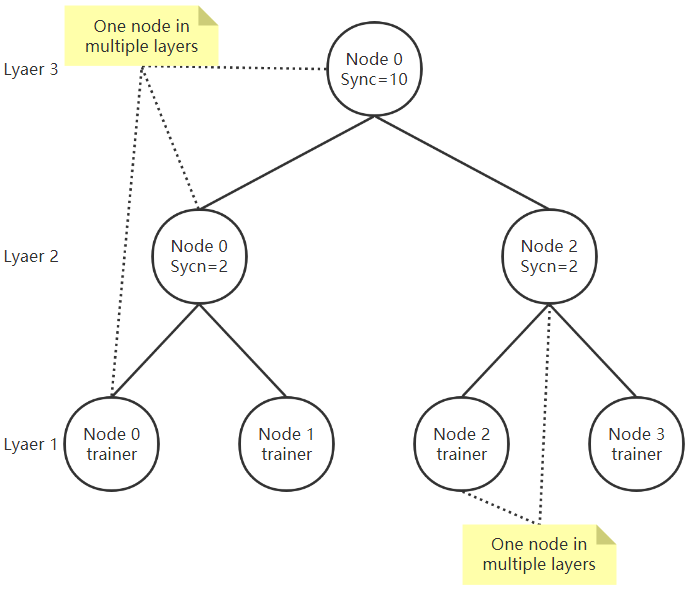
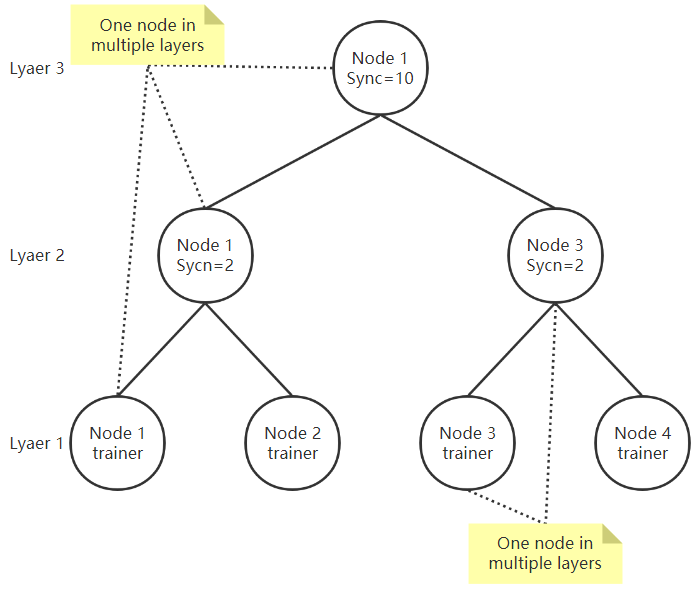
containernet启动

diff --git a/values/values_h.py b/values/values_h.py
@@ -1,28 +1,15 @@
 import json
 import os
 
-values = {}
+file_name = os.getenv ('HOSTNAME') + '.env'
+file_path = os.path.abspath (os.path.join (os.path.dirname (__file__), '../env', file_name))
+file = open (file_path)
+values = json.loads (file.read ().replace ('\n', '').replace ('\r', ''))
 
-values ['id'] = int (os.getenv ('id'), 0)
-values ['port'] = int (os.getenv ('port'), 0)
-values ['type'] = int (os.getenv ('type'), 0)
-# TODO: 最顶层节点聚合多少次结束训练，该功能已被values ['sync']替代
-#  目前的作用好像是用来将训练数据划分成一定数量的batch，考虑换个名称
-values ['round'] = int (os.getenv ('round'))
-# 每层的当前轮次
-values ['layer_count'] = int (os.getenv ('layer_count', 0))
-values ['layer'] = (json.loads (os.getenv ('layer'))) ['data']
-values ['up_addr'] = (json.loads (os.getenv ('up_addr'))) ['data']
-values ['down_count'] = (json.loads (os.getenv ('down_count'))) ['data']
-if not (values ['layer_count'] == 1 and values ['layer'] [0] == 1):
-	values ['down_addr'] = (json.loads (os.getenv ('down_addr'))) ['data']
 values ['current_round'] = [0] * values ['layer_count']
-
 # 聚合用
 # FL中选择下一次训练的节点数量比例，在EL中应该设置为1
 values ['fraction'] = 1
-# EL中每层的同步频率
-values ['sync'] = (json.loads (os.getenv ('sync'))) ['data']
 # 每层接收到的参数数量
 values ['received_count'] = [0] * values ['layer_count']
 # 每层接收到的参数

diff --git a/containernet.py b/containernet.py
@@ -1,0 +1,40 @@
+from mininet.net import Containernet
+from mininet.node import Controller
+from mininet.cli import CLI
+from mininet.link import TCLink
+from mininet.log import info, setLogLevel
+
+setLogLevel ('info')
+
+net = Containernet (controller=Controller)
+info ('*** Adding controller\n')
+net.addController ('c0')
+info ('*** Adding docker containers\n')
+n1 = net.addDocker ('n1', ip='10.0.0.1', dimage="etree", dcmd="python hybrid.py",
+	volumes=["/home/lin/ETree/:/home/ETree"], ports=[8888], port_bindings={8888: 8888})
+n2 = net.addDocker ('n2', ip='10.0.0.2', dimage="etree", dcmd="python hybrid.py",
+	volumes=["/home/lin/ETree/:/home/ETree"])
+n3 = net.addDocker ('n3', ip='10.0.0.3', dimage="etree", dcmd="python hybrid.py",
+	volumes=["/home/lin/ETree/:/home/ETree"])
+n4 = net.addDocker ('n4', ip='10.0.0.4', dimage="etree", dcmd="python hybrid.py",
+	volumes=["/home/lin/ETree/:/home/ETree"])
+info ('*** Adding switches\n')
+s1 = net.addSwitch ('s1')
+# s2 = net.addSwitch ('s2')
+info ('*** Creating links\n')
+net.addLink (n1, s1)
+net.addLink (n2, s1)
+net.addLink (n3, s1)
+net.addLink (n4, s1)
+# net.addLink (s1, s2, cls=TCLink, delay='100ms', bw=1)
+# net.addLink (s2, n2)
+info ('*** Starting network\n')
+net.start ()
+info ('*** Testing connectivity\n')
+net.ping ([n1, n2])
+net.ping ([n1, n3])
+net.ping ([n1, n4])
+info ('*** Running CLI\n')
+CLI (net)
+info ('*** Stopping network')
+net.stop ()

diff --git a/generate_yml.py b/generate_yml.py
@@ -12,26 +12,26 @@ for option, value in options:
 		n = int (value)
 
 string = \
-	"version: \"2\"\n" \
-	+ "services:\n" \
-	+ "  \"0\":\n" \
-	+ "    extends:\n" \
-	+ "      file: ./etree.yml\n" \
-	+ "      service: etree\n" \
-	+ "    container_name: \"node0\"\n" \
-	+ "    env_file:\n" \
-	+ "      - env/0.env\n" \
-	+ "    ports:\n" \
-	+ "      - \"8888:8888\"\n"
+	"version: \"2\"\r\n" \
+	+ "services:\r\n" \
+	+ "  \"0\":\r\n" \
+	+ "    extends:\r\n" \
+	+ "      file: ./etree.yml\r\n" \
+	+ "      service: etree\r\n" \
+	+ "    container_name: \"n0\"\r\n" \
+	+ "    environment:" \
+	+ "      HOSTNAME: \"n0\"" \
+	+ "    ports:\r\n" \
+	+ "      - \"8888:8888\"\r\n"
 
 for i in range (1, n):
-	string += "  \"" + str (i) + "\":\n" \
-	          + "    extends:\n" \
-	          + "      file: ./etree.yml\n" \
-	          + "      service: etree\n" \
-	          + "    container_name: \"node" + str (i) + "\"\n" \
-	          + "    env_file:\n" \
-	          + "      - env/" + str (i) + ".env\n"
+	string += "  \"" + str (i) + "\":\r\n" \
+	          + "    extends:\r\n" \
+	          + "      file: ./etree.yml\r\n" \
+	          + "      service: etree\r\n" \
+	          + "    container_name: \"n" + str (i) + "\"\r\n" \
+	          + "    environment:\r\n" \
+	          + "      HOSTNAME: \"n" + str (i) + "\"\r\n"
 
 with open ('run.yml', 'w') as f:
 	f.write (string)

diff --git a/hybrid.py b/hybrid.py
@@ -13,7 +13,7 @@ from values import values_h
 nn = nn_lr.get_nn ()
 v = values_h.get_values ()
 
-logging.basicConfig (level=logging.INFO, filename='log/node' + str (v ['id']) + '.log', filemode='w',
+logging.basicConfig (level=logging.INFO, filename='log/n' + str (v ['id']) + '.log', filemode='w',
 	format='%(message)s')
 
 nn_lr.set_train_data_batch (v ['batch_size'], v ['round'], v ['start_index'], v ['end_index'])

diff --git a/proxy.py b/proxy.py
@@ -17,6 +17,10 @@ class logFunc ():
 		pass
 
 
+#TODO: log文件变了
+#  不区分parameter_server和work了，因为一个节点可能同时是两种角色
+# logging.basicConfig (level=logging.INFO, filename='log/n' + str (v ['id']) + '.log', filemode='w', format='%(message)s')
+
 # 被代理类
 class beProxy (logFunc):
 	# def basicconfig(self):

diff --git a/env/README.md b/env/README.md
@@ -1,9 +1,9 @@
 ####当前env的网络结构
 ![网络结构](../default_network.png)
 
-####env文件说明
+#### env文件说明
 - id，要和该env的名字一致  
-```id=0```
+```id=1```
 - 端口号，统一8888  
 ```port=8888```
 - 类型，0=EL，1=FL  
@@ -13,8 +13,13 @@
 - 同时处于多少层  
 ```layer_count=3```
 
-- 从这开始都为JSON格式，key={"data":[...]}，即使节点只处于一层也要用[ ]，参考1.env
-
+##### 注意
+  0. 下面都为JSON格式，key={"data":[...]}，即使节点只处于一层也要用[ ]，参考1.env
+  0. 涉及真实地址的部分，docker-compose和containernet两种启动方式略有不同
+  0. 使用docker-compose时，addr设置成类似http://n2:8888的格式，即用run.yml中的HOSTNAME
+  0. 使用containernet时，addr设置成类似http:10.0.0.2:8888的格式，即用containernet.py中的ip
+  0. 问就是containernet不能用HOSTNAME访问，而docker-compose用HOSTNAME访问完全不care IP
+  
 - 分别属于哪些层，1为最底层  
 ```layer={"data":[1,2,3]}```
 - 节点位于每层的上层节点地址  
@@ -25,7 +30,8 @@
 ```down_count={"data":[0,2,2]}```  
 当节点处于最底层为训练节点时，该层的down_count置为0  
 - 节点位于每层的下层节点地址  
-```down_addr={"data":[[],["self","http://node1:8888"],["self","http://node2:8888"]```  
+```down_addr={"data":[[],["self","http://n2:8888"],["self","http://n3:8888"]```  
+```down_addr={"data":[[],["self","http://10.0.0.2:8888"],["self","http://10.0.0.3:8888"]```  
 当节点仅仅处于最底层时可以不写down_addr  
 当节点同时处于最底层和其他层时，最底层要留一个空的[ ]，参考0.env  
 当节点同时处于多层，且下层节包含自己时，用self代替完全的地址

diff --git a/README.md b/README.md
@@ -2,20 +2,30 @@
 ###已完成部分
 - Dockerfile
 - docker-compose
+- ContainerNet
 ###待完成部分
-- 集成到ContainerNet
+- ??
 ###安装说明
 0. Install docker >= v19.03
-0. Install docker-compose >= v1.25
+0. Install docker-compose >= v1.25 (docker-compose启动)
+0. Bare-metal install Containernet >= master branch 7ad907e (ContainerNet启动)
 0. ```bash setup.sh```
 0. Wait and have a coffee
-###使用说明
+###docker-compose启动说明
 0. 如果要自定义网络
     0. 定义一个N个节点的网络，比如4
     0. ```python3 generate_yml.py -n 4```
-    0. 在./env中编写0.env~n-1.env，格式说明参见./env/README.md
-    0. 务必将节点0作为最上层的节点
+    0. 在./env中编写1.env~n.env，格式说明参见./env/README.md
+    0. 务必将节点1作为最上层的节点
 0. ```docker-compose -f run.yml &```
 0. 等到显示N个Serving Flask app "hybrid" (lazy loading)
 0. ```curl localhost:8888/start```
 0. 显示training ended后可在.log/查看训练情况
+###Containernet启动说明
+0. 如果要自定义网络
+    0. 修改containernet.py
+    0. 在./env中编写1.env~n.env，格式说明参见./env/README.md
+    0. 务必将节点1作为最上层的节点
+0. ```sudo python3 containernet.py``` 
+0. 换一个控制台```curl localhost:8888/start```
+0. (这东西似乎没有任何输出，不知道什么时候才算训练完)，自己看.log/查看训练情况
